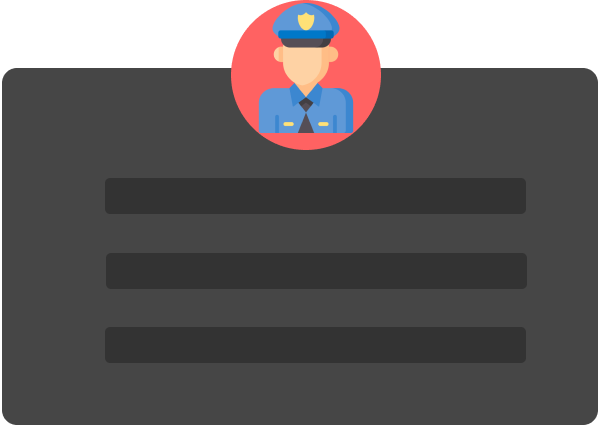
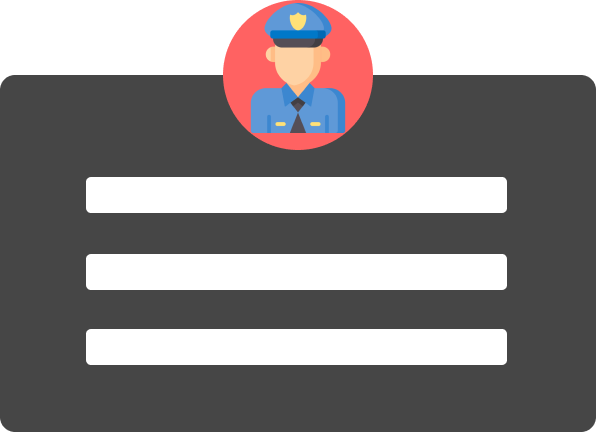
Cambios Design hasta RegistroDatosPersonales

diff --git a/src/VIsta/Registro_DatosPersonales.java b/src/VIsta/Registro_DatosPersonales.java
@@ -69,20 +69,8 @@ public class Registro_DatosPersonales extends javax.swing.JPanel {
         lbl13.setFont(tipoFuentes.fuente(tipoFuentes.DMSans, 0, 17));
         lbl14.setFont(tipoFuentes.fuente(tipoFuentes.DMSans, 0, 17));
         lbl15.setFont(tipoFuentes.fuente(tipoFuentes.DMSans, 0, 17));
-        
-        btnSiguiente.setText("<html> <font color='white'> Siguiente </font> </html>");
-        caracBtn(btnSiguiente);  
+
     }
-    
-    private void caracBtn(JButton btn)
-    {
-        btn.setFont((tipoFuentes.fuente(tipoFuentes.DMSans, 1, 22)));
-        btn.setHorizontalTextPosition(JButton.CENTER);
-        btn.setVerticalTextPosition(JButton.CENTER);
-        btn.setVerticalAlignment(JButton.CENTER);
-        btn.setHorizontalAlignment(JButton.CENTER); 
-    }
- 
     
     @SuppressWarnings("unchecked")  
     // <editor-fold defaultstate="collapsed" desc="Generated Code">//GEN-BEGIN:initComponents
@@ -129,18 +117,18 @@ public class Registro_DatosPersonales extends javax.swing.JPanel {
         jLabel2 = new javax.swing.JLabel();
 
         jPanel1.setBackground(new java.awt.Color(51, 51, 51));
-        jPanel1.setPreferredSize(new java.awt.Dimension(1000, 700));
+        jPanel1.setPreferredSize(new java.awt.Dimension(1010, 700));
         jPanel1.setLayout(new org.netbeans.lib.awtextra.AbsoluteLayout());
 
         lblRegresar.setForeground(new java.awt.Color(255, 255, 255));
-        lblRegresar.setIcon(new javax.swing.ImageIcon(getClass().getResource("/VIsta/imagenes/RegresarImg.png"))); // NOI18N
+        lblRegresar.setIcon(new javax.swing.ImageIcon(getClass().getResource("/VIsta/imagenes/fast-forward.png"))); // NOI18N
         lblRegresar.setCursor(new java.awt.Cursor(java.awt.Cursor.HAND_CURSOR));
         lblRegresar.addMouseListener(new java.awt.event.MouseAdapter() {
             public void mouseClicked(java.awt.event.MouseEvent evt) {
                 lblRegresarMouseClicked(evt);
             }
         });
-        jPanel1.add(lblRegresar, new org.netbeans.lib.awtextra.AbsoluteConstraints(20, 20, 40, 50));
+        jPanel1.add(lblRegresar, new org.netbeans.lib.awtextra.AbsoluteConstraints(30, 10, 64, 70));
 
         ContenedorP.setBackground(new java.awt.Color(70, 70, 70));
         ContenedorP.setLayout(new org.netbeans.lib.awtextra.AbsoluteLayout());
@@ -206,35 +194,35 @@ public class Registro_DatosPersonales extends javax.swing.JPanel {
         ContenedorP.add(lbl15, new org.netbeans.lib.awtextra.AbsoluteConstraints(400, 400, 210, 30));
 
         txtNombres.setBackground(new java.awt.Color(255, 255, 255));
-        txtNombres.setFont(new java.awt.Font("Arial", 0, 15)); // NOI18N
+        txtNombres.setFont(new java.awt.Font("Arial", 0, 16)); // NOI18N
         txtNombres.setForeground(new java.awt.Color(0, 0, 0));
         txtNombres.setText(" ");
         txtNombres.setBorder(null);
         ContenedorP.add(txtNombres, new org.netbeans.lib.awtextra.AbsoluteConstraints(90, 80, 230, 30));
 
         txtApellidos.setBackground(new java.awt.Color(255, 255, 255));
-        txtApellidos.setFont(new java.awt.Font("Arial", 0, 15)); // NOI18N
+        txtApellidos.setFont(new java.awt.Font("Arial", 0, 16)); // NOI18N
         txtApellidos.setForeground(new java.awt.Color(0, 0, 0));
         txtApellidos.setText(" ");
         txtApellidos.setBorder(null);
         ContenedorP.add(txtApellidos, new org.netbeans.lib.awtextra.AbsoluteConstraints(90, 160, 230, 30));
 
         txtDireccion.setBackground(new java.awt.Color(255, 255, 255));
-        txtDireccion.setFont(new java.awt.Font("Arial", 0, 15)); // NOI18N
+        txtDireccion.setFont(new java.awt.Font("Arial", 0, 16)); // NOI18N
         txtDireccion.setForeground(new java.awt.Color(0, 0, 0));
         txtDireccion.setText(" ");
         txtDireccion.setBorder(null);
         ContenedorP.add(txtDireccion, new org.netbeans.lib.awtextra.AbsoluteConstraints(90, 350, 230, 30));
 
         txtDui.setBackground(new java.awt.Color(255, 255, 255));
-        txtDui.setFont(new java.awt.Font("Arial", 0, 15)); // NOI18N
+        txtDui.setFont(new java.awt.Font("Arial", 0, 16)); // NOI18N
         txtDui.setForeground(new java.awt.Color(0, 0, 0));
         txtDui.setText(" ");
         txtDui.setBorder(null);
         ContenedorP.add(txtDui, new org.netbeans.lib.awtextra.AbsoluteConstraints(90, 440, 220, 30));
 
         txtNumeroTel.setBackground(new java.awt.Color(255, 255, 255));
-        txtNumeroTel.setFont(new java.awt.Font("Arial", 0, 15)); // NOI18N
+        txtNumeroTel.setFont(new java.awt.Font("Arial", 0, 16)); // NOI18N
         txtNumeroTel.setForeground(new java.awt.Color(0, 0, 0));
         txtNumeroTel.setText(" ");
         txtNumeroTel.setBorder(null);
@@ -246,7 +234,7 @@ public class Registro_DatosPersonales extends javax.swing.JPanel {
         ContenedorP.add(txtNumeroTel, new org.netbeans.lib.awtextra.AbsoluteConstraints(410, 70, 230, 30));
 
         txtCorreo.setBackground(new java.awt.Color(255, 255, 255));
-        txtCorreo.setFont(new java.awt.Font("Arial", 0, 15)); // NOI18N
+        txtCorreo.setFont(new java.awt.Font("Arial", 0, 16)); // NOI18N
         txtCorreo.setForeground(new java.awt.Color(0, 0, 0));
         txtCorreo.setText(" ");
         txtCorreo.setBorder(null);
@@ -316,7 +304,7 @@ public class Registro_DatosPersonales extends javax.swing.JPanel {
 
         ContenedorP.add(MasNacionalidades, new org.netbeans.lib.awtextra.AbsoluteConstraints(870, 160, 50, 50));
 
-        btnSiguiente.setIcon(new javax.swing.ImageIcon(getClass().getResource("/VIsta/imagenes/btnOrange.png"))); // NOI18N
+        btnSiguiente.setIcon(new javax.swing.ImageIcon(getClass().getResource("/VIsta/imagenes/R10.png"))); // NOI18N
         btnSiguiente.setBorderPainted(false);
         btnSiguiente.setContentAreaFilled(false);
         btnSiguiente.setCursor(new java.awt.Cursor(java.awt.Cursor.HAND_CURSOR));
@@ -330,12 +318,12 @@ public class Registro_DatosPersonales extends javax.swing.JPanel {
                 btnSiguienteActionPerformed(evt);
             }
         });
-        ContenedorP.add(btnSiguiente, new org.netbeans.lib.awtextra.AbsoluteConstraints(740, 421, 170, -1));
+        ContenedorP.add(btnSiguiente, new org.netbeans.lib.awtextra.AbsoluteConstraints(690, 410, 220, 50));
 
         jLabel34.setFont(new java.awt.Font("Javanese Text", 1, 18)); // NOI18N
         jLabel34.setForeground(new java.awt.Color(255, 255, 255));
-        jLabel34.setIcon(new javax.swing.ImageIcon(getClass().getResource("/VIsta/imagenes/R7.png"))); // NOI18N
-        ContenedorP.add(jLabel34, new org.netbeans.lib.awtextra.AbsoluteConstraints(740, 420, -1, 70));
+        jLabel34.setIcon(new javax.swing.ImageIcon(getClass().getResource("/VIsta/imagenes/btnnextDBack.png"))); // NOI18N
+        ContenedorP.add(jLabel34, new org.netbeans.lib.awtextra.AbsoluteConstraints(690, 410, 220, 60));
 
         Mas1.setIcon(new javax.swing.ImageIcon(getClass().getResource("/VIsta/imagenes/Mas.png"))); // NOI18N
         Mas1.setCursor(new java.awt.Cursor(java.awt.Cursor.HAND_CURSOR));
@@ -383,7 +371,7 @@ public class Registro_DatosPersonales extends javax.swing.JPanel {
         jPanel1.add(ContenedorP, new org.netbeans.lib.awtextra.AbsoluteConstraints(30, 130, 940, 530));
 
         jLabel2.setIcon(new javax.swing.ImageIcon(getClass().getResource("/VIsta/imagenes/headerRegistroPersonas.png"))); // NOI18N
-        jPanel1.add(jLabel2, new org.netbeans.lib.awtextra.AbsoluteConstraints(0, 0, 1010, 90));
+        jPanel1.add(jLabel2, new org.netbeans.lib.awtextra.AbsoluteConstraints(0, 0, 1010, 120));
 
         javax.swing.GroupLayout layout = new javax.swing.GroupLayout(this);
         this.setLayout(layout);
@@ -397,7 +385,7 @@ public class Registro_DatosPersonales extends javax.swing.JPanel {
         );
         layout.setVerticalGroup(
             layout.createParallelGroup(javax.swing.GroupLayout.Alignment.LEADING)
-            .addGap(0, 710, Short.MAX_VALUE)
+            .addGap(0, 720, Short.MAX_VALUE)
             .addGroup(layout.createParallelGroup(javax.swing.GroupLayout.Alignment.LEADING)
                 .addComponent(jPanel1, javax.swing.GroupLayout.DEFAULT_SIZE, javax.swing.GroupLayout.DEFAULT_SIZE, Short.MAX_VALUE))
         );

diff --git a/src/VIsta/RegistroUsuario.java b/src/VIsta/RegistroUsuario.java
@@ -74,43 +74,45 @@ public class RegistroUsuario extends javax.swing.JPanel {
         jPanel1.setBackground(new java.awt.Color(51, 51, 51));
         jPanel1.setLayout(new org.netbeans.lib.awtextra.AbsoluteLayout());
 
-        txtContrasena2.setBackground(new java.awt.Color(51, 51, 51));
-        txtContrasena2.setForeground(new java.awt.Color(255, 255, 255));
+        txtContrasena2.setBackground(new java.awt.Color(255, 255, 255));
+        txtContrasena2.setFont(new java.awt.Font("Arial", 0, 16)); // NOI18N
+        txtContrasena2.setForeground(new java.awt.Color(0, 0, 0));
         txtContrasena2.setToolTipText("");
         txtContrasena2.setBorder(null);
         txtContrasena2.setPreferredSize(new java.awt.Dimension(90, 18));
-        jPanel1.add(txtContrasena2, new org.netbeans.lib.awtextra.AbsoluteConstraints(310, 460, 410, 33));
+        jPanel1.add(txtContrasena2, new org.netbeans.lib.awtextra.AbsoluteConstraints(292, 462, 410, 30));
 
-        txtContrasena.setBackground(new java.awt.Color(51, 51, 51));
-        txtContrasena.setForeground(new java.awt.Color(255, 255, 255));
+        txtContrasena.setBackground(new java.awt.Color(255, 255, 255));
+        txtContrasena.setFont(new java.awt.Font("Arial", 0, 16)); // NOI18N
+        txtContrasena.setForeground(new java.awt.Color(0, 0, 0));
         txtContrasena.setToolTipText("");
         txtContrasena.setBorder(null);
         txtContrasena.setPreferredSize(new java.awt.Dimension(90, 18));
-        jPanel1.add(txtContrasena, new org.netbeans.lib.awtextra.AbsoluteConstraints(310, 385, 410, 33));
+        jPanel1.add(txtContrasena, new org.netbeans.lib.awtextra.AbsoluteConstraints(292, 387, 410, 30));
 
         jLabel6.setFont(new java.awt.Font("Arial", 0, 17)); // NOI18N
         jLabel6.setForeground(new java.awt.Color(255, 255, 255));
-        jLabel6.setText("Confirmación de contraseña:");
-        jPanel1.add(jLabel6, new org.netbeans.lib.awtextra.AbsoluteConstraints(310, 420, 420, 40));
+        jLabel6.setText("Confirmación de contraseña");
+        jPanel1.add(jLabel6, new org.netbeans.lib.awtextra.AbsoluteConstraints(286, 428, 420, 30));
 
         jLabel5.setFont(new java.awt.Font("Arial", 0, 17)); // NOI18N
         jLabel5.setForeground(new java.awt.Color(255, 255, 255));
-        jLabel5.setText("Contraseña:");
-        jPanel1.add(jLabel5, new org.netbeans.lib.awtextra.AbsoluteConstraints(310, 350, 420, 30));
+        jLabel5.setText("Contraseña");
+        jPanel1.add(jLabel5, new org.netbeans.lib.awtextra.AbsoluteConstraints(286, 354, 420, 30));
 
         jLabel4.setFont(new java.awt.Font("Arial", 0, 17)); // NOI18N
         jLabel4.setForeground(new java.awt.Color(255, 255, 255));
-        jLabel4.setText("Usuario:");
-        jPanel1.add(jLabel4, new org.netbeans.lib.awtextra.AbsoluteConstraints(310, 270, 420, 40));
+        jLabel4.setText("Usuario");
+        jPanel1.add(jLabel4, new org.netbeans.lib.awtextra.AbsoluteConstraints(286, 276, 420, 30));
 
-        txtUsuario.setBackground(new java.awt.Color(51, 51, 51));
-        txtUsuario.setFont(new java.awt.Font("Segoe UI", 0, 13)); // NOI18N
-        txtUsuario.setForeground(new java.awt.Color(255, 255, 255));
+        txtUsuario.setBackground(new java.awt.Color(255, 255, 255));
+        txtUsuario.setFont(new java.awt.Font("Arial", 0, 16)); // NOI18N
+        txtUsuario.setForeground(new java.awt.Color(0, 0, 0));
         txtUsuario.setToolTipText("");
         txtUsuario.setBorder(null);
-        jPanel1.add(txtUsuario, new org.netbeans.lib.awtextra.AbsoluteConstraints(310, 310, 410, 30));
+        jPanel1.add(txtUsuario, new org.netbeans.lib.awtextra.AbsoluteConstraints(292, 310, 410, 30));
 
-        btnSiguiente.setIcon(new javax.swing.ImageIcon(getClass().getResource("/VIsta/imagenes/btnOrange.png"))); // NOI18N
+        btnSiguiente.setIcon(new javax.swing.ImageIcon(getClass().getResource("/VIsta/imagenes/R10.png"))); // NOI18N
         btnSiguiente.setBorderPainted(false);
         btnSiguiente.setContentAreaFilled(false);
         btnSiguiente.setCursor(new java.awt.Cursor(java.awt.Cursor.HAND_CURSOR));
@@ -124,25 +126,25 @@ public class RegistroUsuario extends javax.swing.JPanel {
                 btnSiguienteActionPerformed(evt);
             }
         });
-        jPanel1.add(btnSiguiente, new org.netbeans.lib.awtextra.AbsoluteConstraints(440, 530, 170, 60));
+        jPanel1.add(btnSiguiente, new org.netbeans.lib.awtextra.AbsoluteConstraints(400, 538, 220, 50));
 
         jLabel7.setFont(new java.awt.Font("Arial", 0, 17)); // NOI18N
         jLabel7.setForeground(new java.awt.Color(255, 255, 255));
-        jLabel7.setIcon(new javax.swing.ImageIcon(getClass().getResource("/VIsta/imagenes/btnOrangeBack.png"))); // NOI18N
-        jPanel1.add(jLabel7, new org.netbeans.lib.awtextra.AbsoluteConstraints(440, 520, 200, 90));
+        jLabel7.setIcon(new javax.swing.ImageIcon(getClass().getResource("/VIsta/imagenes/btnnextDBack.png"))); // NOI18N
+        jPanel1.add(jLabel7, new org.netbeans.lib.awtextra.AbsoluteConstraints(400, 538, 220, 60));
 
         lblRegresar.setForeground(new java.awt.Color(255, 255, 255));
-        lblRegresar.setIcon(new javax.swing.ImageIcon(getClass().getResource("/VIsta/imagenes/RegresarImg.png"))); // NOI18N
+        lblRegresar.setIcon(new javax.swing.ImageIcon(getClass().getResource("/VIsta/imagenes/fast-forward.png"))); // NOI18N
         lblRegresar.setCursor(new java.awt.Cursor(java.awt.Cursor.HAND_CURSOR));
         lblRegresar.addMouseListener(new java.awt.event.MouseAdapter() {
             public void mouseClicked(java.awt.event.MouseEvent evt) {
                 lblRegresarMouseClicked(evt);
             }
         });
-        jPanel1.add(lblRegresar, new org.netbeans.lib.awtextra.AbsoluteConstraints(20, 20, 40, 50));
+        jPanel1.add(lblRegresar, new org.netbeans.lib.awtextra.AbsoluteConstraints(30, 10, 64, 70));
 
         jLabel1.setIcon(new javax.swing.ImageIcon(getClass().getResource("/VIsta/imagenes/headerRegistroUser.png"))); // NOI18N
-        jPanel1.add(jLabel1, new org.netbeans.lib.awtextra.AbsoluteConstraints(0, 0, 1010, 90));
+        jPanel1.add(jLabel1, new org.netbeans.lib.awtextra.AbsoluteConstraints(0, 0, 1010, 120));
 
         jLabel2.setIcon(new javax.swing.ImageIcon(getClass().getResource("/VIsta/imagenes/backRegistroUserAAA.png"))); // NOI18N
         jPanel1.add(jLabel2, new org.netbeans.lib.awtextra.AbsoluteConstraints(200, 130, -1, -1));

diff --git a/src/VIsta/RegistroInfoPolicial.java b/src/VIsta/RegistroInfoPolicial.java
@@ -75,7 +75,7 @@ public class RegistroInfoPolicial extends javax.swing.JPanel {
 
         jLabel5.setFont(new java.awt.Font("Arial", 0, 17)); // NOI18N
         jLabel5.setForeground(new java.awt.Color(242, 242, 242));
-        jLabel5.setText("Numero de Placa");
+        jLabel5.setText("Número de placa");
         jPanel2.add(jLabel5, new org.netbeans.lib.awtextra.AbsoluteConstraints(310, 390, 420, 30));
 
         btnSiguiente.setIcon(new javax.swing.ImageIcon(getClass().getResource("/VIsta/imagenes/R10.png"))); // NOI18N
@@ -109,7 +109,7 @@ public class RegistroInfoPolicial extends javax.swing.JPanel {
         jLabel4.setFont(new java.awt.Font("Arial", 0, 17)); // NOI18N
         jLabel4.setForeground(new java.awt.Color(242, 242, 242));
         jLabel4.setText("ONI");
-        jPanel2.add(jLabel4, new org.netbeans.lib.awtextra.AbsoluteConstraints(310, 270, 420, 40));
+        jPanel2.add(jLabel4, new org.netbeans.lib.awtextra.AbsoluteConstraints(310, 280, 420, 30));
 
         jLabel2.setIcon(new javax.swing.ImageIcon(getClass().getResource("/VIsta/imagenes/backInfoPolicial.png"))); // NOI18N
         jPanel2.add(jLabel2, new org.netbeans.lib.awtextra.AbsoluteConstraints(140, 120, -1, -1));
